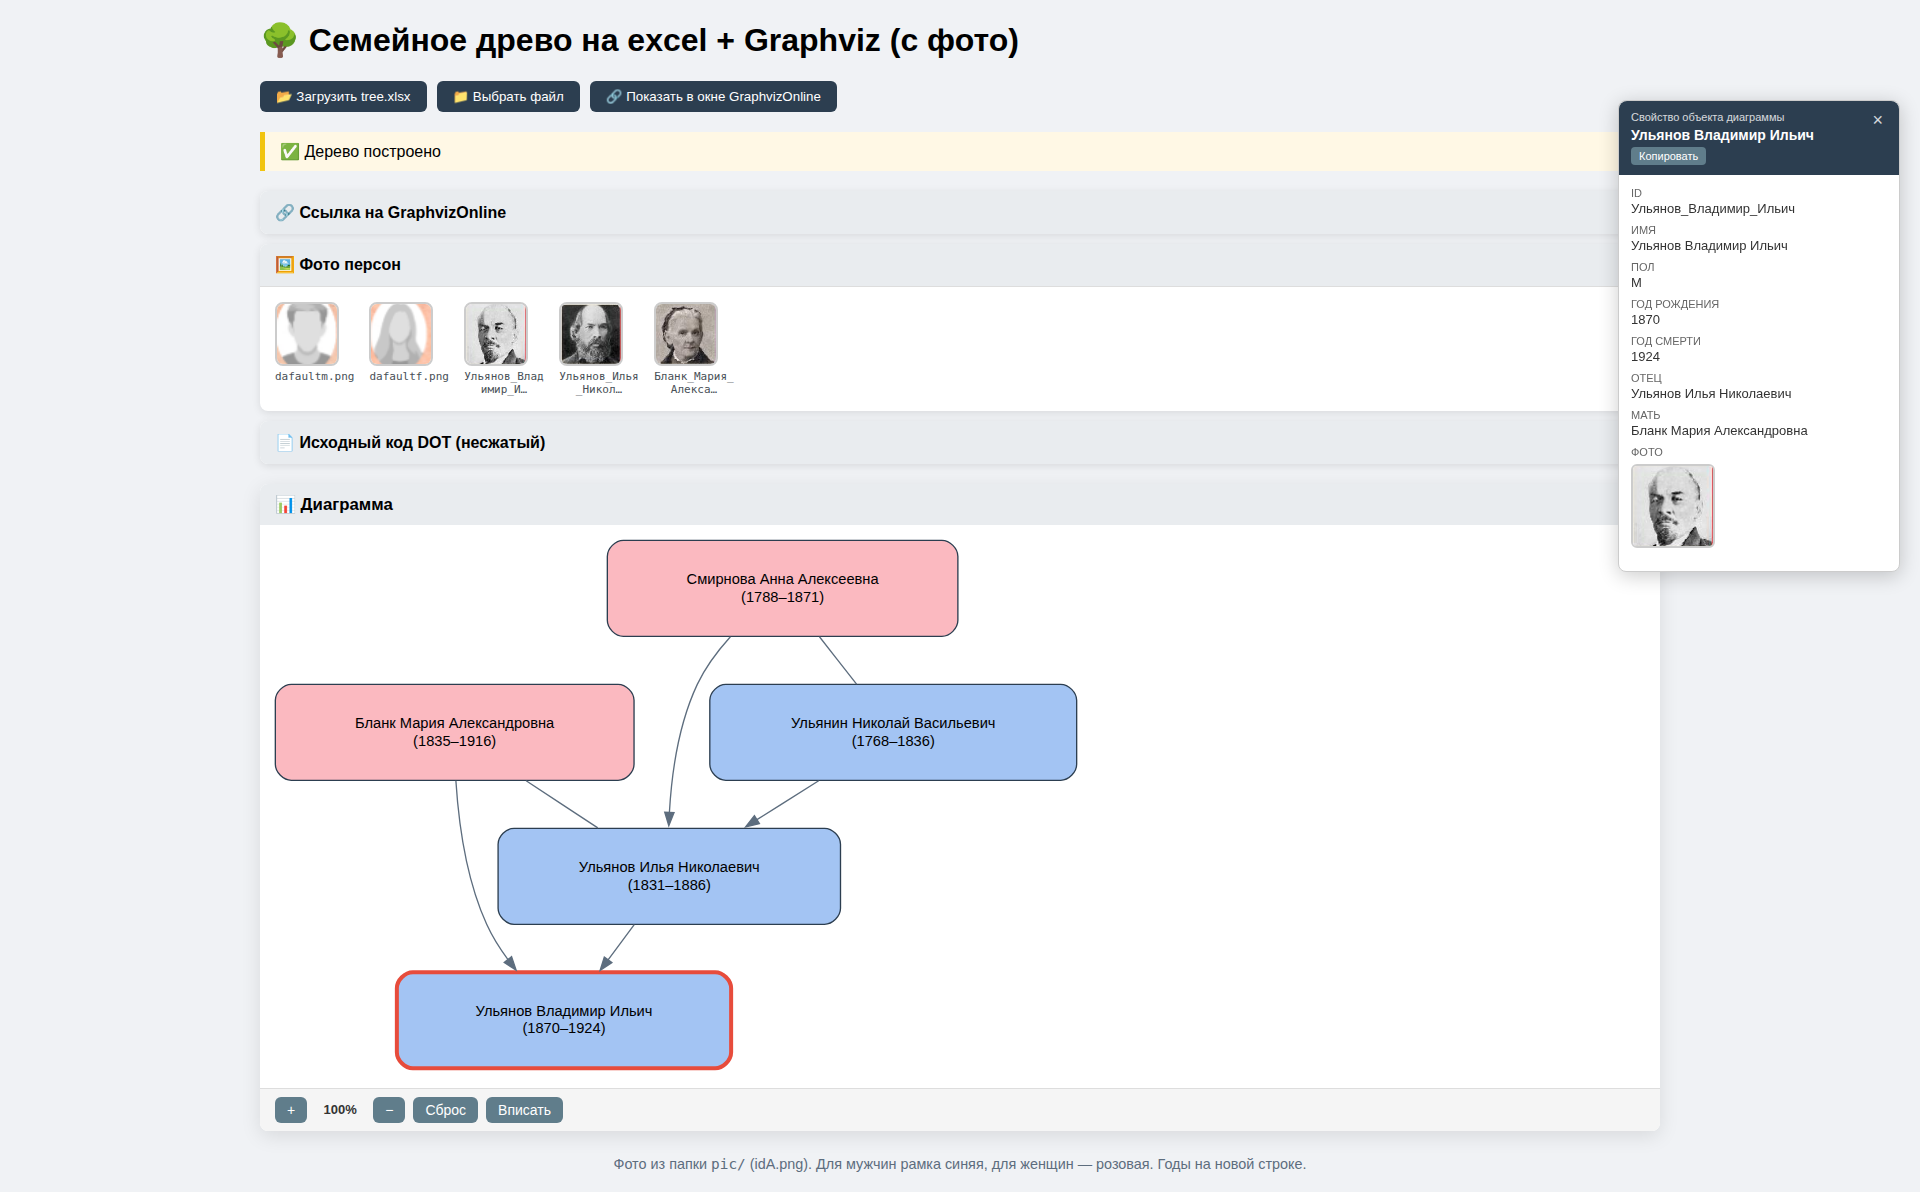
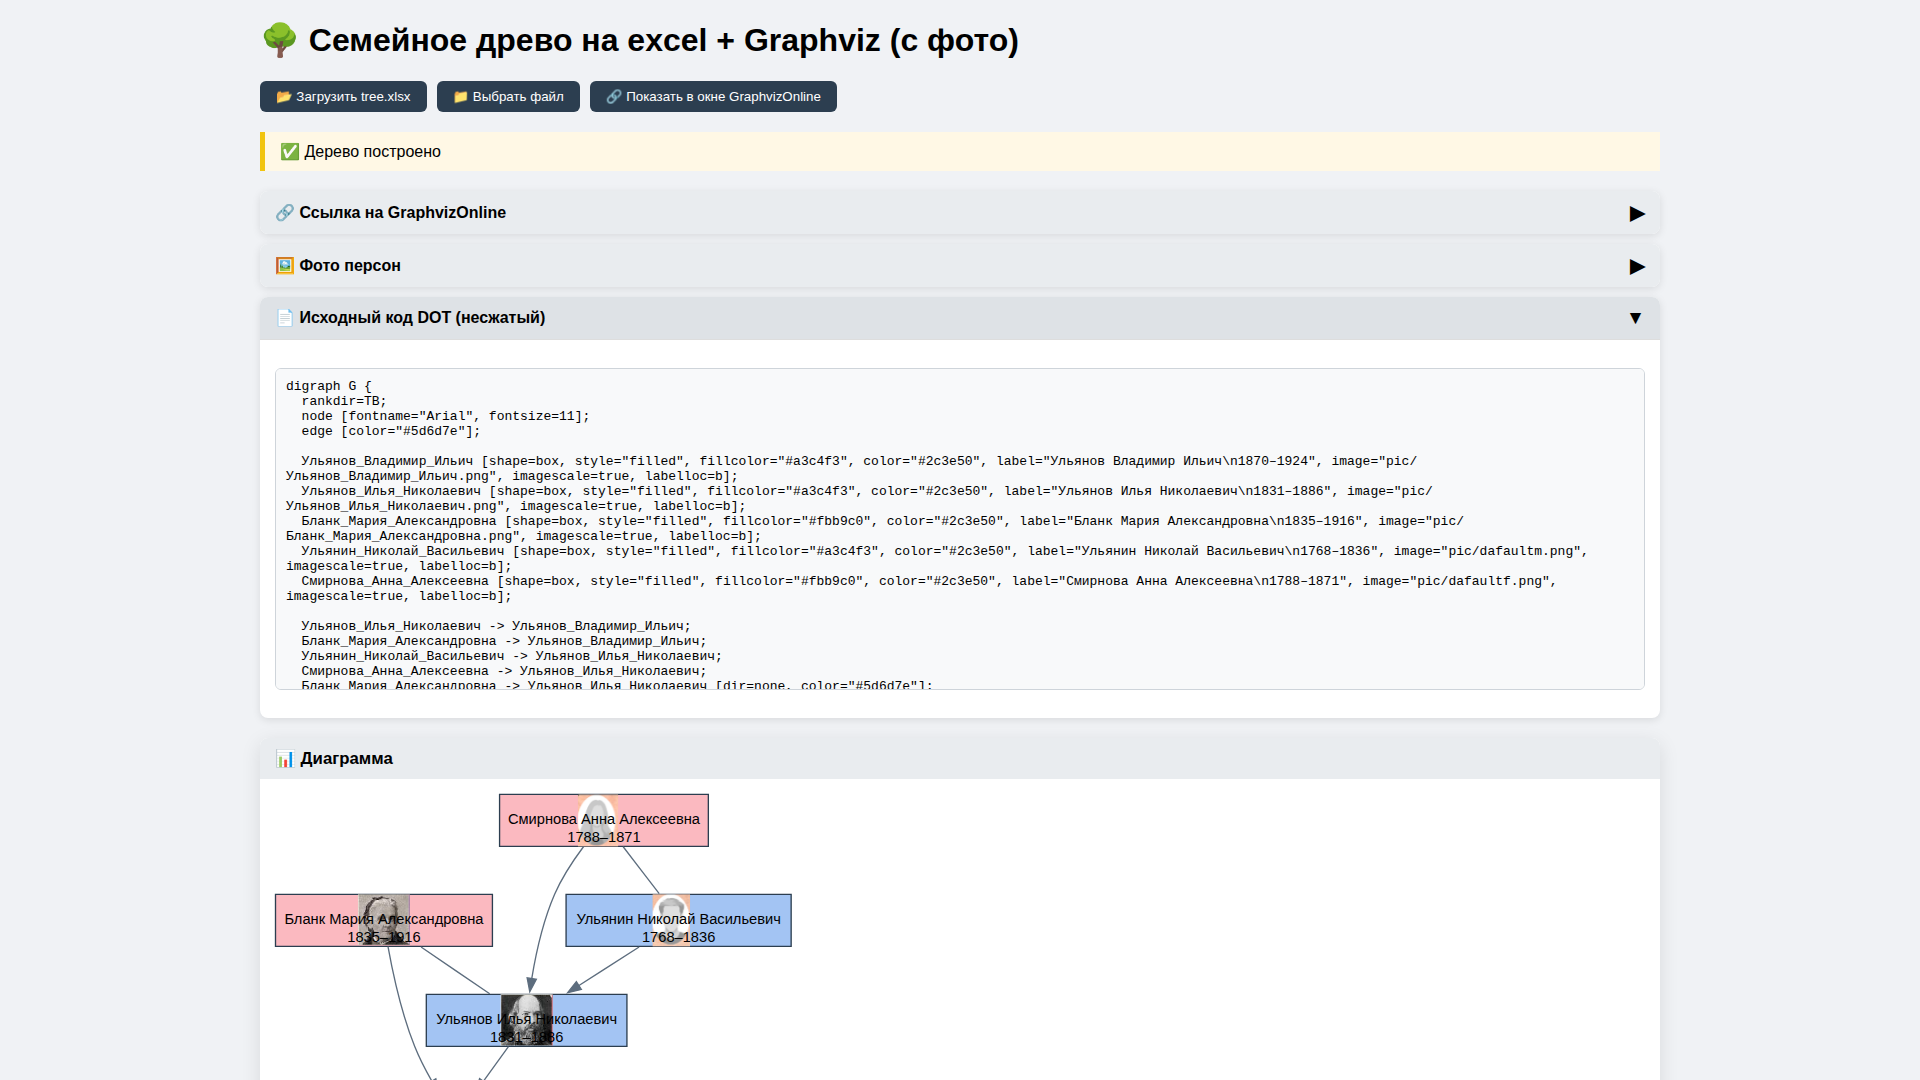
Fix v1_5foto: photo above node using image= + labelloc=b, no rounded corners, clean DOT
Replaces HTML-like <<TABLE...>> labels with native Graphviz attributes:
- image= with labelloc=b places photo above the label text
- imagescale=true scales photo to fit the node
- style="filled" on all nodes (no rounded corners, consistent appearance
  whether the person has a personal photo or falls back to the default)
- PHOTO_SIZE_PX increased to 100 for better visibility
- DOT code is now concise and easy to read

Fixes bpmbpm/family-tree#9

Changed region(s): [[0.125, 0.0306, 1.0, 1.0]]

diff --git a/ver1/index.html b/ver1/index.html
@@ -224,7 +224,7 @@
             </div>
         </div>
 
-        <footer>Фото из папки <code>pic/</code> (idA.png). Используется штатный атрибут Graphviz <code>image=</code>. Для мужчин рамка синяя, для женщин — розовая. Годы на новой строке.</footer>
+        <footer>Фото из папки <code>pic/</code> (idA.png). Используется штатный атрибут Graphviz <code>image=</code> с <code>labelloc=b</code> (фото сверху, подпись снизу). Для мужчин рамка синяя, для женщин — розовая. Годы на новой строке.</footer>
     </div>
 
     <!-- Properties panels container (fixed positioning) -->
@@ -248,8 +248,9 @@
             // Cache: filename -> true (exists) or false (not found)
             const photoExistsCache = {};
 
-            // Photo size for Graphviz image= attribute (pixels)
-            const PHOTO_SIZE_PX = 50;
+            // Photo size for Graphviz image= attribute (pixels at 72 DPI).
+            // Width matches node width so the photo fills the top portion of the node.
+            const PHOTO_SIZE_PX = 100;
 
             const graphvizOnlineBtn = document.getElementById('graphvizOnlineBtn');
             const statusDiv = document.getElementById('status');
@@ -378,9 +379,10 @@
                 }
             }
 
-            // --- Generate DOT code using native Graphviz image= attribute ---
-            // Uses pic/<idA>.png paths directly; images are registered via the images option
-            // in viz.renderString() so Graphviz can allocate proper space for them in layout.
+            // --- Generate DOT code using native Graphviz image= + labelloc=b ---
+            // Photo appears above the node label (labelloc=b places label below image).
+            // All nodes use style="filled" (no rounded corners).
+            // DOT code stays clean and readable — no HTML-like <<TABLE...>> labels.
             async function generateDotCode(peopleList) {
                 const nodes = [];
                 const edges = [];
@@ -403,14 +405,12 @@
 
                     const photoPath = await getPersonPhotoPath(p);
                     if (photoPath) {
-                        // HTML-like label: table with photo cell on left and left-aligned text on right.
-                        // This ensures the name and years are left-aligned relative to the fixed left margin,
-                        // not centered across the full node width.
-                        // style="filled" (no rounded) — rounded corners look bad with photos.
-                        const htmlLabel = `<<TABLE BORDER="0" CELLBORDER="0" CELLSPACING="4" CELLPADDING="2"><TR><TD FIXEDSIZE="TRUE" WIDTH="${PHOTO_SIZE_PX}" HEIGHT="${PHOTO_SIZE_PX}"><IMG SRC="${photoPath}" SCALE="TRUE"/></TD><TD ALIGN="LEFT" VALIGN="MIDDLE"><FONT FACE="Arial" POINT-SIZE="11">${p.label}<BR ALIGN="LEFT"/>${birthYear}–${deathYear}<BR ALIGN="LEFT"/></FONT></TD></TR></TABLE>>`;
-                        nodes.push(`  ${nodeId} [shape=box, style="filled", fillcolor="${fillcolor}", color="#2c3e50", label=${htmlLabel}];`);
+                        // image= places photo above label; labelloc=b puts label below the image.
+                        // imagescale=true scales photo to fit the reserved space.
+                        // No rounded corners (style="filled") for consistency with default-photo nodes.
+                        nodes.push(`  ${nodeId} [shape=box, style="filled", fillcolor="${fillcolor}", color="#2c3e50", label="${labelText}", image="${photoPath}", imagescale=true, labelloc=b];`);
                     } else {
-                        nodes.push(`  ${nodeId} [shape=box, style="filled,rounded", fillcolor="${fillcolor}", color="#2c3e50", fontname="Arial", fontsize=11, label="${labelText}"];`);
+                        nodes.push(`  ${nodeId} [shape=box, style="filled", fillcolor="${fillcolor}", color="#2c3e50", label="${labelText}"];`);
                     }
                 }
 
